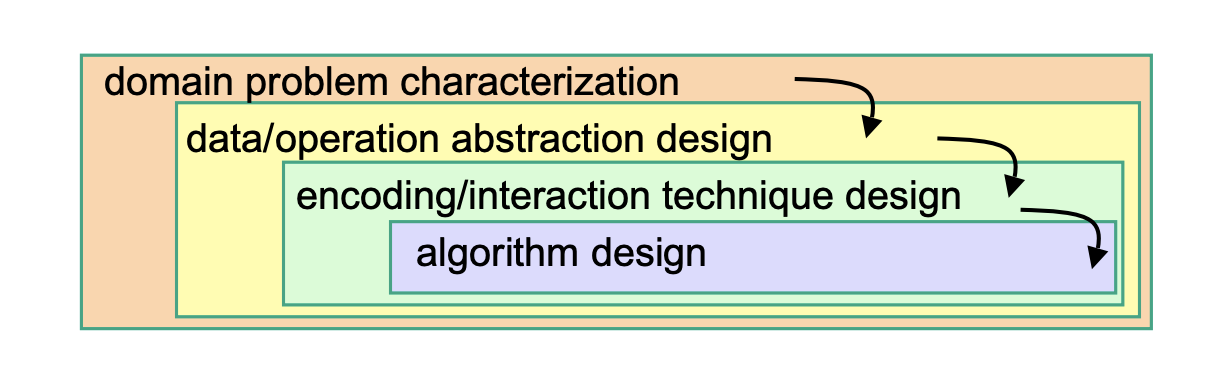
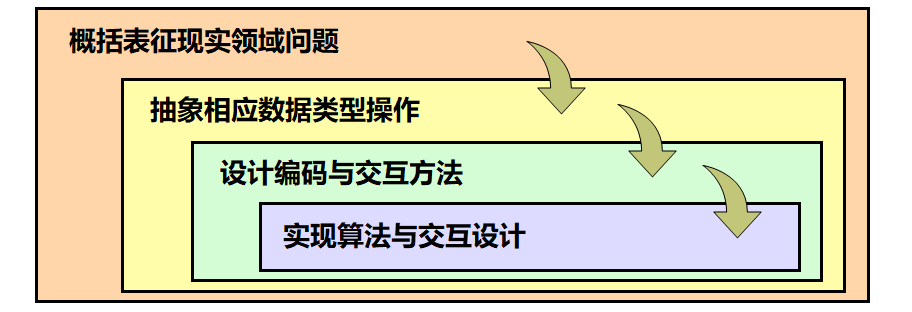
04-15

diff --git a/source/visualization/analytics/overview.md b/source/visualization/analytics/overview.md
@@ -17,8 +17,6 @@
 该议程将可视分析定义为："可视分析是一种分析推理科学，它通过交互式视觉界面，将人的灵活性、创造力和背景知识与计算机的存储和处理能力相结合，实现复杂、大规模数据集的高效处理和决策"。
 由此便诞生了可视分析这一新兴领域，其目标是结合人类认知与高效算法，实现对复杂数据的可视化与深度分析。
 
-【图1：可视分析发展历程示意图】
-这是一张展示可视分析如何从早期“纯数据挖掘”和“信息可视化”交融演进而来的路线图，图中包含了关键的年份节点、代表人物和重要里程碑事件。
 
 ## 可视分析的理论、流程与技术
 
@@ -65,9 +63,9 @@
 - 人机协同与迭代分析：根据用户对结果的反馈，不断试验假设，调整算法参数或方法并再次训练，记录推理与决策过程，迭代收敛；
 - 知识发现与决策支持：在不断迭代中，用户逐渐形成对数据的深层理解，并为后续决策提供支持。
 
-```{figure} fig/visualization-analytics-knowledge_generation.png
+```{figure} fig/visualization-analytics-pipeline.png
 :name: visualization-analytics-pipeline
-可视分析流程图：首先定义领域任务，由计算机进行数据准备与自动分析，然后进行人机交互，通过图形反馈不断循环迭代，最终产生数据洞察，辅助决策。{cite}`sacha2014knowledge`
+欧洲学者Daniel Keim等人提出的可视分析学标准流程。{cite}`keim2008visual`
 ```
 
 ### 可视分析的主要技术

diff --git a/source/visualization/analytics/system.md b/source/visualization/analytics/system.md
@@ -24,7 +24,8 @@
 
 ## 典型系统框架
 
-可视分析系统的设计遵循 **“数据-模型-可视化”三元框架**，通过动态交互将计算机的计算能力与人类的认知推理能力紧密结合。其核心组件包括：
+可视分析系统的设计遵循 **“数据-模型-可视化”三元框架**（见{numref}`fig-visualization-analytics-knowledge_generation`“计算机”部分），通过动态交互将计算机的计算能力与人类的认知推理能力紧密结合。其核心组件包括：
+
 
 - 数据层（Data Layer）：负责数据的采集、存储、清洗和预处理。
 
@@ -48,12 +49,6 @@
   <!-- - 设计原则：视图呈现如散点图、平行坐标、地理地图、网络图等；基于感知原则选择合适的可视编码。
   - 交互操作：刷选、过滤、多视图联动、细节提示、标记与注释；
   - 结果解读：将模型输出（如聚类结果、特征重要度）与可视界面直观结合，辅助洞察。 -->
-
-```{figure} fig/visualization-analytics-inform_model.png
-:name: fig-visualization-analytics-pipeline2
-图中展示了三大模块（数据、模型、可视化与交互）如何首尾相连，并围绕用户形成一个多重回路。
-数据经由预处理后被送入模型层进行运算，模型结果可进一步投射到可视化。用户在视图上操作时，可跳转至不同分析模型或获取更多数据，形成一个整体的系统生态。{cite}`sacha2014knowledge`
-```
 
 
 ## 系统构建的六大关键步骤

diff --git a/source/visualization/basics/interaction.md b/source/visualization/basics/interaction.md
@@ -15,8 +15,10 @@
 Sketchpad被公认为是第一个真正的交互式图形用户界面和可视化系统，奠定了人机交互领域的基础。 
 Sketchpad引入了诸如几何约束、面向对象、视图与对象分离等重要概念，用户可以通过光笔在屏幕上直接绘制和操纵图形对象，展现了交互对可视化的重要作用。
 
-图1 Sketchpad界面图
-![Sketchpad界面示意图]
+```{figure} fig/visualization-basics-SketchpadDissertation.png
+:name: visualization-basics-SketchpadDissertation.png
+正在操纵Sketchpad的Ivan Sutherland。(Kerry Rodden根据Ivan Sutherland的原始照片扫描得到的Sketchpad论文电子版，由 Blackwell 和 Rodden编辑)
+```
 
 20世纪70-80年代，随着计算机图形学、GUI、面向对象编程等技术的发展，以及个人计算机的普及，交互式可视化迎来了蓬勃发展的时期。一系列里程碑式的可视化系统和技术相继出现：
 
